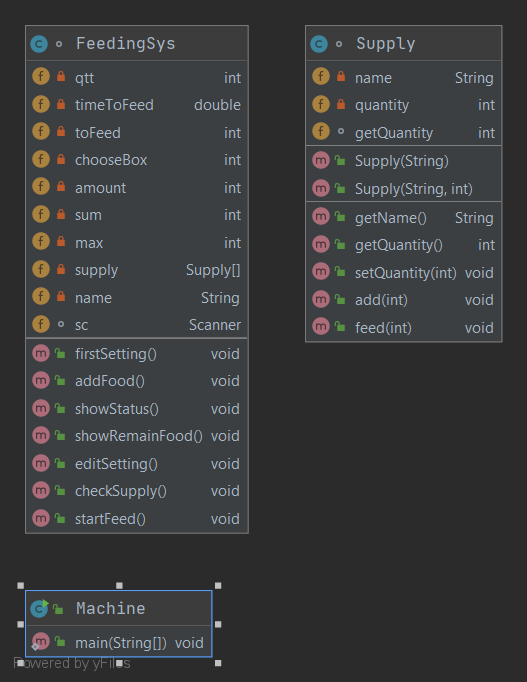
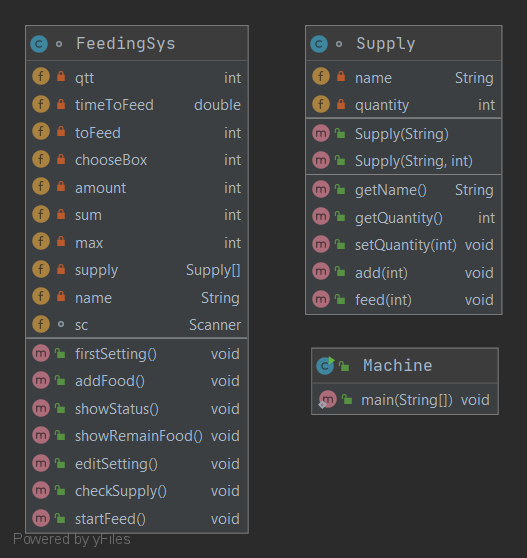
final final

Changed region(s): [[0.0304, 0.0305, 0.4858, 1.0], [0.5769, 0.0305, 0.9715, 0.5789], [0.5769, 0.6093, 0.9715, 0.7312]]

diff --git a/src/doc/member-search-index.js b/src/doc/member-search-index.js
@@ -1,1 +1,1 @@
-memberSearchIndex = [{"p":"feedingmachine","c":"Supply","l":"add(int)"},{"p":"feedingmachine","c":"FeedingSys","l":"addFood()"},{"p":"feedingmachine","c":"FeedingSys","l":"amount"},{"p":"feedingmachine","c":"FeedingSys","l":"checkSupply()"},{"p":"feedingmachine","c":"FeedingSys","l":"chooseBox"},{"p":"feedingmachine","c":"FeedingSys","l":"editSetting()"},{"p":"feedingmachine","c":"Supply","l":"feed(int)"},{"p":"feedingmachine","c":"FeedingSys","l":"FeedingSys()","u":"%3Cinit%3E()"},{"p":"feedingmachine","c":"FeedingSys","l":"firstSetting()"},{"p":"feedingmachine","c":"Supply","l":"getName()"},{"p":"feedingmachine","c":"Supply","l":"getQuantity"},{"p":"feedingmachine","c":"Supply","l":"getQuantity()"},{"p":"feedingmachine","c":"Machine","l":"Machine()","u":"%3Cinit%3E()"},{"p":"feedingmachine","c":"Machine","l":"main(String[])","u":"main(java.lang.String[])"},{"p":"feedingmachine","c":"FeedingSys","l":"max"},{"p":"feedingmachine","c":"FeedingSys","l":"name"},{"p":"feedingmachine","c":"Supply","l":"name"},{"p":"feedingmachine","c":"FeedingSys","l":"qtt"},{"p":"feedingmachine","c":"Supply","l":"quantity"},{"p":"feedingmachine","c":"FeedingSys","l":"sc"},{"p":"feedingmachine","c":"Supply","l":"setQuantity(int)"},{"p":"feedingmachine","c":"FeedingSys","l":"showRemainFood()"},{"p":"feedingmachine","c":"FeedingSys","l":"showStatus()"},{"p":"feedingmachine","c":"FeedingSys","l":"startFeed()"},{"p":"feedingmachine","c":"FeedingSys","l":"sum"},{"p":"feedingmachine","c":"FeedingSys","l":"supply"},{"p":"feedingmachine","c":"Supply","l":"Supply(String)","u":"%3Cinit%3E(java.lang.String)"},{"p":"feedingmachine","c":"Supply","l":"Supply(String, int)","u":"%3Cinit%3E(java.lang.String,int)"},{"p":"feedingmachine","c":"FeedingSys","l":"timeToFeed"},{"p":"feedingmachine","c":"FeedingSys","l":"toFeed"}];updateSearchResults();
+memberSearchIndex = [{"p":"feedingmachine","c":"Supply","l":"add(int)"},{"p":"feedingmachine","c":"FeedingSys","l":"addFood()"},{"p":"feedingmachine","c":"FeedingSys","l":"amount"},{"p":"feedingmachine","c":"FeedingSys","l":"checkSupply()"},{"p":"feedingmachine","c":"FeedingSys","l":"chooseBox"},{"p":"feedingmachine","c":"FeedingSys","l":"editSetting()"},{"p":"feedingmachine","c":"Supply","l":"feed(int)"},{"p":"feedingmachine","c":"FeedingSys","l":"FeedingSys()","u":"%3Cinit%3E()"},{"p":"feedingmachine","c":"FeedingSys","l":"firstSetting()"},{"p":"feedingmachine","c":"Supply","l":"getName()"},{"p":"feedingmachine","c":"Supply","l":"getQuantity()"},{"p":"feedingmachine","c":"Machine","l":"Machine()","u":"%3Cinit%3E()"},{"p":"feedingmachine","c":"Machine","l":"main(String[])","u":"main(java.lang.String[])"},{"p":"feedingmachine","c":"FeedingSys","l":"max"},{"p":"feedingmachine","c":"FeedingSys","l":"name"},{"p":"feedingmachine","c":"Supply","l":"name"},{"p":"feedingmachine","c":"FeedingSys","l":"qtt"},{"p":"feedingmachine","c":"Supply","l":"quantity"},{"p":"feedingmachine","c":"FeedingSys","l":"sc"},{"p":"feedingmachine","c":"Supply","l":"setQuantity(int)"},{"p":"feedingmachine","c":"FeedingSys","l":"showRemainFood()"},{"p":"feedingmachine","c":"FeedingSys","l":"showStatus()"},{"p":"feedingmachine","c":"FeedingSys","l":"startFeed()"},{"p":"feedingmachine","c":"FeedingSys","l":"sum"},{"p":"feedingmachine","c":"FeedingSys","l":"supply"},{"p":"feedingmachine","c":"Supply","l":"Supply(String)","u":"%3Cinit%3E(java.lang.String)"},{"p":"feedingmachine","c":"Supply","l":"Supply(String, int)","u":"%3Cinit%3E(java.lang.String,int)"},{"p":"feedingmachine","c":"FeedingSys","l":"timeToFeed"},{"p":"feedingmachine","c":"FeedingSys","l":"toFeed"}];updateSearchResults();

diff --git a/src/doc/feedingmachine/Supply.html b/src/doc/feedingmachine/Supply.html
@@ -2,7 +2,7 @@
 <!-- NewPage -->
 <html lang="en">
 <head>
-<!-- Generated by javadoc (15) on Mon Nov 23 19:04:50 ICT 2020 -->
+<!-- Generated by javadoc (15) on Mon Nov 23 22:44:51 ICT 2020 -->
 <title>Supply</title>
 <meta http-equiv="Content-Type" content="text/html; charset=utf-8">
 <meta name="dc.created" content="2020-11-23">
@@ -102,16 +102,11 @@ extends java.lang.Object</pre>
 </thead>
 <tbody>
 <tr class="alt-color">
-<td class="col-first"><code>(package private) int</code></td>
-<th class="col-second" scope="row"><code><span class="member-name-link"><a href="#getQuantity">getQuantity</a></span></code></th>
-<td class="col-last">&nbsp;</td>
-</tr>
-<tr class="row-color">
 <td class="col-first"><code>private java.lang.String</code></td>
 <th class="col-second" scope="row"><code><span class="member-name-link"><a href="#name">name</a></span></code></th>
 <td class="col-last">&nbsp;</td>
 </tr>
-<tr class="alt-color">
+<tr class="row-color">
 <td class="col-first"><code>private int</code></td>
 <th class="col-second" scope="row"><code><span class="member-name-link"><a href="#quantity">quantity</a></span></code></th>
 <td class="col-last">&nbsp;</td>
@@ -222,12 +217,6 @@ int&nbsp;quantity)</code></th>
 <section class="detail" id="quantity">
 <h3>quantity</h3>
 <div class="member-signature"><span class="modifiers">private</span>&nbsp;<span class="return-type">int</span>&nbsp;<span class="member-name">quantity</span></div>
-</section>
-</li>
-<li>
-<section class="detail" id="getQuantity">
-<h3>getQuantity</h3>
-<div class="member-signature"><span class="return-type">int</span>&nbsp;<span class="member-name">getQuantity</span></div>
 </section>
 </li>
 </ul>

diff --git a/src/doc/index-files/index-5.html b/src/doc/index-files/index-5.html
@@ -2,7 +2,7 @@
 <!-- NewPage -->
 <html lang="en">
 <head>
-<!-- Generated by javadoc (15) on Mon Nov 23 19:04:50 ICT 2020 -->
+<!-- Generated by javadoc (15) on Mon Nov 23 22:44:51 ICT 2020 -->
 <title>G-Index</title>
 <meta http-equiv="Content-Type" content="text/html; charset=utf-8">
 <meta name="dc.created" content="2020-11-23">
@@ -57,8 +57,6 @@ loadScripts(document, 'script');</script>
 <h2 class="title" id="I:G">G</h2>
 <dl class="index">
 <dt><span class="member-name-link"><a href="../feedingmachine/Supply.html#getName()">getName()</a></span> - Method in class feedingmachine.<a href="../feedingmachine/Supply.html" title="class in feedingmachine">Supply</a></dt>
-<dd>&nbsp;</dd>
-<dt><span class="member-name-link"><a href="../feedingmachine/Supply.html#getQuantity">getQuantity</a></span> - Variable in class feedingmachine.<a href="../feedingmachine/Supply.html" title="class in feedingmachine">Supply</a></dt>
 <dd>&nbsp;</dd>
 <dt><span class="member-name-link"><a href="../feedingmachine/Supply.html#getQuantity()">getQuantity()</a></span> - Method in class feedingmachine.<a href="../feedingmachine/Supply.html" title="class in feedingmachine">Supply</a></dt>
 <dd>&nbsp;</dd>

diff --git a/src/doc/feedingmachine/class-use/FeedingSys.html b/src/doc/feedingmachine/class-use/FeedingSys.html
@@ -2,7 +2,7 @@
 <!-- NewPage -->
 <html lang="en">
 <head>
-<!-- Generated by javadoc (15) on Mon Nov 23 19:04:50 ICT 2020 -->
+<!-- Generated by javadoc (15) on Mon Nov 23 22:44:51 ICT 2020 -->
 <title>Uses of Class feedingmachine.FeedingSys</title>
 <meta http-equiv="Content-Type" content="text/html; charset=utf-8">
 <meta name="dc.created" content="2020-11-23">

diff --git a/src/doc/feedingmachine/class-use/Machine.html b/src/doc/feedingmachine/class-use/Machine.html
@@ -2,7 +2,7 @@
 <!-- NewPage -->
 <html lang="en">
 <head>
-<!-- Generated by javadoc (15) on Mon Nov 23 19:04:50 ICT 2020 -->
+<!-- Generated by javadoc (15) on Mon Nov 23 22:44:51 ICT 2020 -->
 <title>Uses of Class feedingmachine.Machine</title>
 <meta http-equiv="Content-Type" content="text/html; charset=utf-8">
 <meta name="dc.created" content="2020-11-23">

diff --git a/src/doc/feedingmachine/class-use/Supply.html b/src/doc/feedingmachine/class-use/Supply.html
@@ -2,7 +2,7 @@
 <!-- NewPage -->
 <html lang="en">
 <head>
-<!-- Generated by javadoc (15) on Mon Nov 23 19:04:50 ICT 2020 -->
+<!-- Generated by javadoc (15) on Mon Nov 23 22:44:51 ICT 2020 -->
 <title>Uses of Class feedingmachine.Supply</title>
 <meta http-equiv="Content-Type" content="text/html; charset=utf-8">
 <meta name="dc.created" content="2020-11-23">

diff --git a/src/doc/index.html b/src/doc/index.html
@@ -2,7 +2,7 @@
 <!-- NewPage -->
 <html lang="en">
 <head>
-<!-- Generated by javadoc (15) on Mon Nov 23 19:04:50 ICT 2020 -->
+<!-- Generated by javadoc (15) on Mon Nov 23 22:44:51 ICT 2020 -->
 <title>Generated Documentation (Untitled)</title>
 <meta http-equiv="Content-Type" content="text/html; charset=utf-8">
 <meta name="dc.created" content="2020-11-23">

diff --git a/src/doc/feedingmachine/package-tree.html b/src/doc/feedingmachine/package-tree.html
@@ -2,7 +2,7 @@
 <!-- NewPage -->
 <html lang="en">
 <head>
-<!-- Generated by javadoc (15) on Mon Nov 23 19:04:50 ICT 2020 -->
+<!-- Generated by javadoc (15) on Mon Nov 23 22:44:51 ICT 2020 -->
 <title>feedingmachine Class Hierarchy</title>
 <meta http-equiv="Content-Type" content="text/html; charset=utf-8">
 <meta name="dc.created" content="2020-11-23">

diff --git a/src/doc/feedingmachine/package-use.html b/src/doc/feedingmachine/package-use.html
@@ -2,7 +2,7 @@
 <!-- NewPage -->
 <html lang="en">
 <head>
-<!-- Generated by javadoc (15) on Mon Nov 23 19:04:50 ICT 2020 -->
+<!-- Generated by javadoc (15) on Mon Nov 23 22:44:51 ICT 2020 -->
 <title>Uses of Package feedingmachine</title>
 <meta http-equiv="Content-Type" content="text/html; charset=utf-8">
 <meta name="dc.created" content="2020-11-23">

diff --git a/src/doc/constant-values.html b/src/doc/constant-values.html
@@ -2,7 +2,7 @@
 <!-- NewPage -->
 <html lang="en">
 <head>
-<!-- Generated by javadoc (15) on Mon Nov 23 19:04:50 ICT 2020 -->
+<!-- Generated by javadoc (15) on Mon Nov 23 22:44:51 ICT 2020 -->
 <title>Constant Field Values</title>
 <meta http-equiv="Content-Type" content="text/html; charset=utf-8">
 <meta name="dc.created" content="2020-11-23">

diff --git a/src/doc/deprecated-list.html b/src/doc/deprecated-list.html
@@ -2,7 +2,7 @@
 <!-- NewPage -->
 <html lang="en">
 <head>
-<!-- Generated by javadoc (15) on Mon Nov 23 19:04:50 ICT 2020 -->
+<!-- Generated by javadoc (15) on Mon Nov 23 22:44:51 ICT 2020 -->
 <title>Deprecated List</title>
 <meta http-equiv="Content-Type" content="text/html; charset=utf-8">
 <meta name="dc.created" content="2020-11-23">

diff --git a/src/doc/overview-tree.html b/src/doc/overview-tree.html
@@ -2,7 +2,7 @@
 <!-- NewPage -->
 <html lang="en">
 <head>
-<!-- Generated by javadoc (15) on Mon Nov 23 19:04:50 ICT 2020 -->
+<!-- Generated by javadoc (15) on Mon Nov 23 22:44:51 ICT 2020 -->
 <title>Class Hierarchy</title>
 <meta http-equiv="Content-Type" content="text/html; charset=utf-8">
 <meta name="dc.created" content="2020-11-23">
